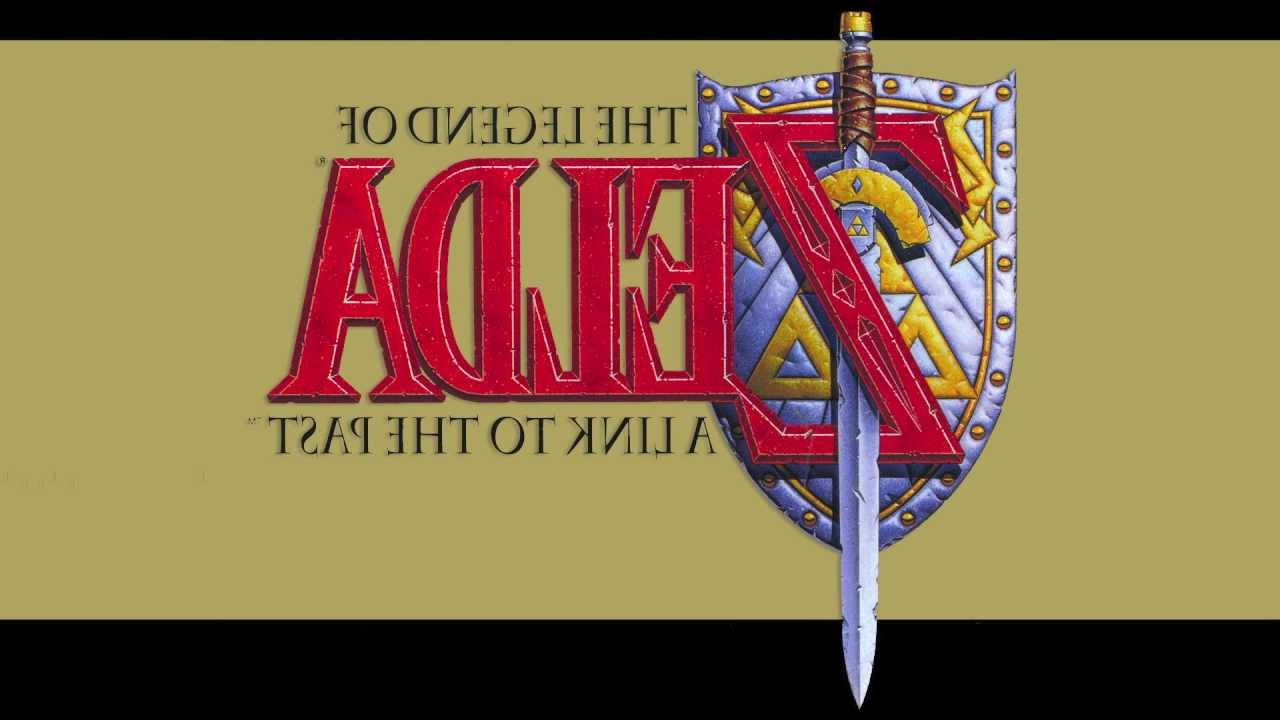
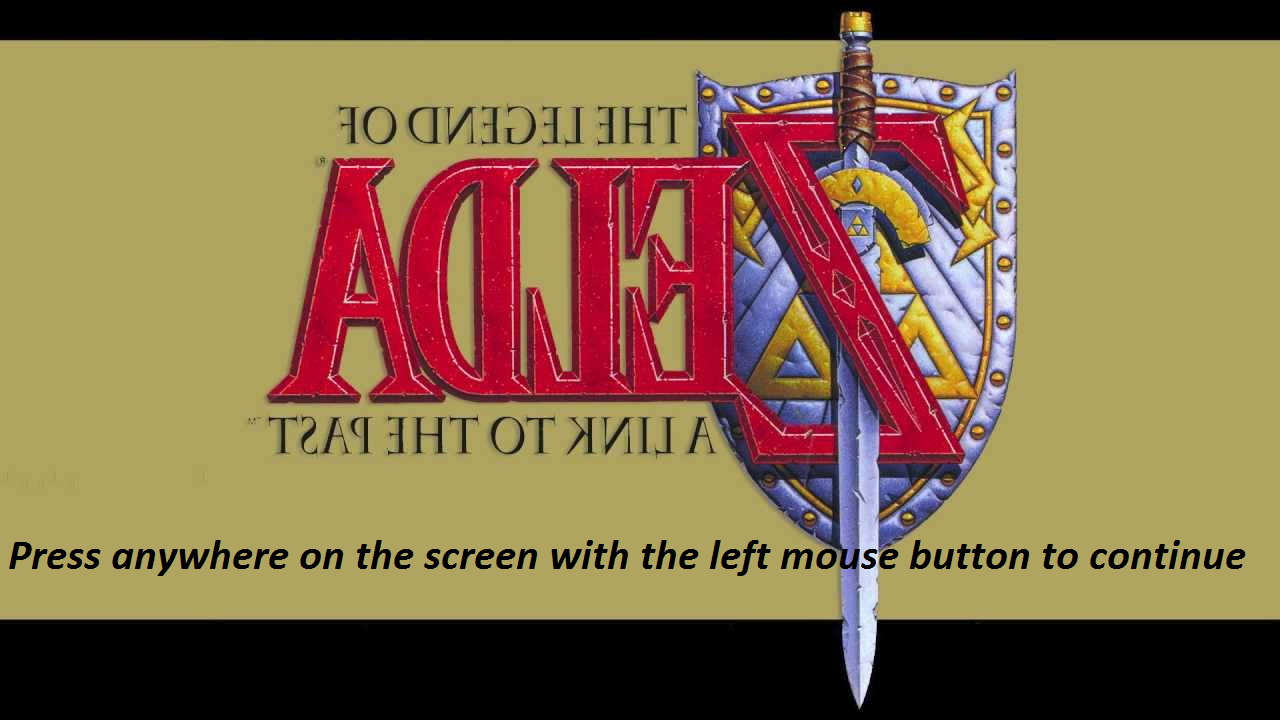
Fixed inventory

Changed region(s): [[0.0, 0.7333, 0.9688, 0.7944]]

diff --git a/ProjectAdlez/core/src/com/mygdx/game/screens/InstructionsScreen.java b/ProjectAdlez/core/src/com/mygdx/game/screens/InstructionsScreen.java
@@ -1,0 +1,44 @@
+package com.mygdx.game.screens;
+
+import com.badlogic.gdx.Gdx;
+import com.badlogic.gdx.graphics.Texture;
+import com.badlogic.gdx.graphics.g2d.TextureRegion;
+import com.badlogic.gdx.scenes.scene2d.InputEvent;
+import com.badlogic.gdx.scenes.scene2d.InputListener;
+import com.badlogic.gdx.scenes.scene2d.ui.ImageButton;
+import com.badlogic.gdx.scenes.scene2d.utils.TextureRegionDrawable;
+import com.mygdx.game.utils.AssetStrings;
+
+/**
+ * Created by Viktor on 2016-05-29.
+ */
+public class InstructionsScreen extends AbstractScreen {
+
+    private Texture backgroundTexture;
+
+    public InstructionsScreen(){
+        super();
+        backgroundTexture = new Texture( Gdx.files.internal(AssetStrings.INSTRUCTIONS_BACKGROUND_IMAGE) );
+    }
+
+    @Override
+    public void buildStage() {
+        ImageButton button = new ImageButton(new TextureRegionDrawable(new TextureRegion(backgroundTexture)));
+        button.setSize(1280,720);
+        addActor(button);
+        button.addListener(new InputListener() {
+            @Override
+            public boolean touchDown(InputEvent event, float x,
+                                     float y, int pointer, int button) {
+                newGame();
+                initiateGame();
+                return false;
+            }
+        });
+    }
+    @Override
+    public void dispose() {
+        super.dispose();
+        backgroundTexture.dispose();
+    }
+}

diff --git a/ProjectAdlez/core/src/com/mygdx/game/utils/AssetStrings.java b/ProjectAdlez/core/src/com/mygdx/game/utils/AssetStrings.java
@@ -48,6 +48,7 @@ public final class AssetStrings {
     public static final String MAIN_MENU_BACKGROUND_IMAGE = "backgrounds/mainMenuBackground2.png";
     public static final String INTRO_SCREEN_BACKGROUND_IMAGE = "backgrounds/ZeldaIntro.png";
     public static final String GAME_OVER_BACKGROUND_IMAGE = "backgrounds/gameoverBackground.png";
+    public static final String INSTRUCTIONS_BACKGROUND_IMAGE = "backgrounds/instructionsBackground.png";
 
     /* Stationary obstacles */
     public static final String BOX_OBSTACLE_IMAGE = "obstacles/boxObstacle.jpeg";

diff --git a/ProjectAdlez/core/src/com/mygdx/game/screens/MainMenuScreen.java b/ProjectAdlez/core/src/com/mygdx/game/screens/MainMenuScreen.java
@@ -52,8 +52,8 @@ public class MainMenuScreen extends AbstractScreen {
             @Override
             public boolean touchDown(InputEvent event, float x,
                                      float y, int pointer, int button) {
-                newGame();
-                initiateGame();
+                ScreenManager.getInstance().showScreen(ScreenEnum.INSTRUCTIONS);
+
                 return false;
             }
         });

diff --git a/ProjectAdlez/core/src/com/mygdx/game/screens/ScreenEnum.java b/ProjectAdlez/core/src/com/mygdx/game/screens/ScreenEnum.java
@@ -25,6 +25,11 @@ public enum ScreenEnum {
         public AbstractScreen getScreen() {
             return new GameOverScreen();
         }
+    },
+    INSTRUCTIONS {
+        public AbstractScreen getScreen(){
+            return new InstructionsScreen();
+        }
     };
 
     public abstract AbstractScreen getScreen();
